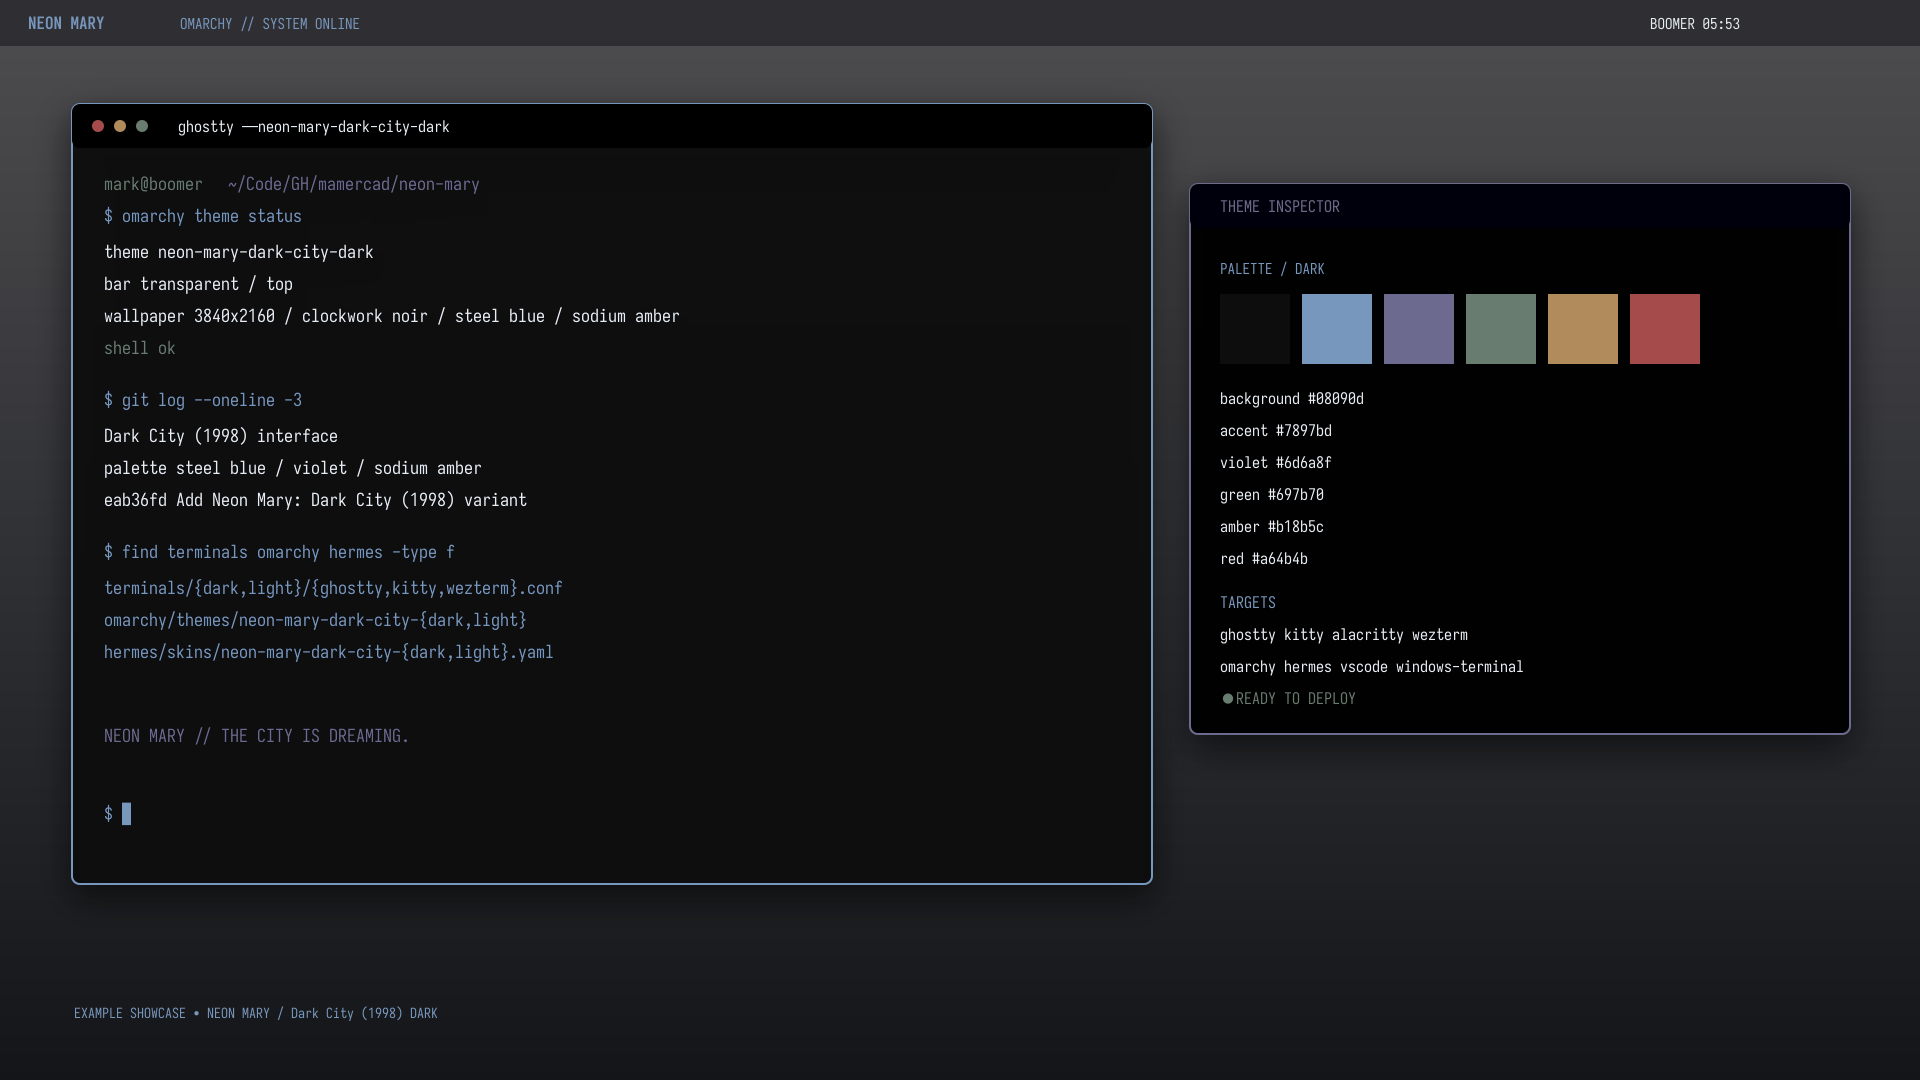
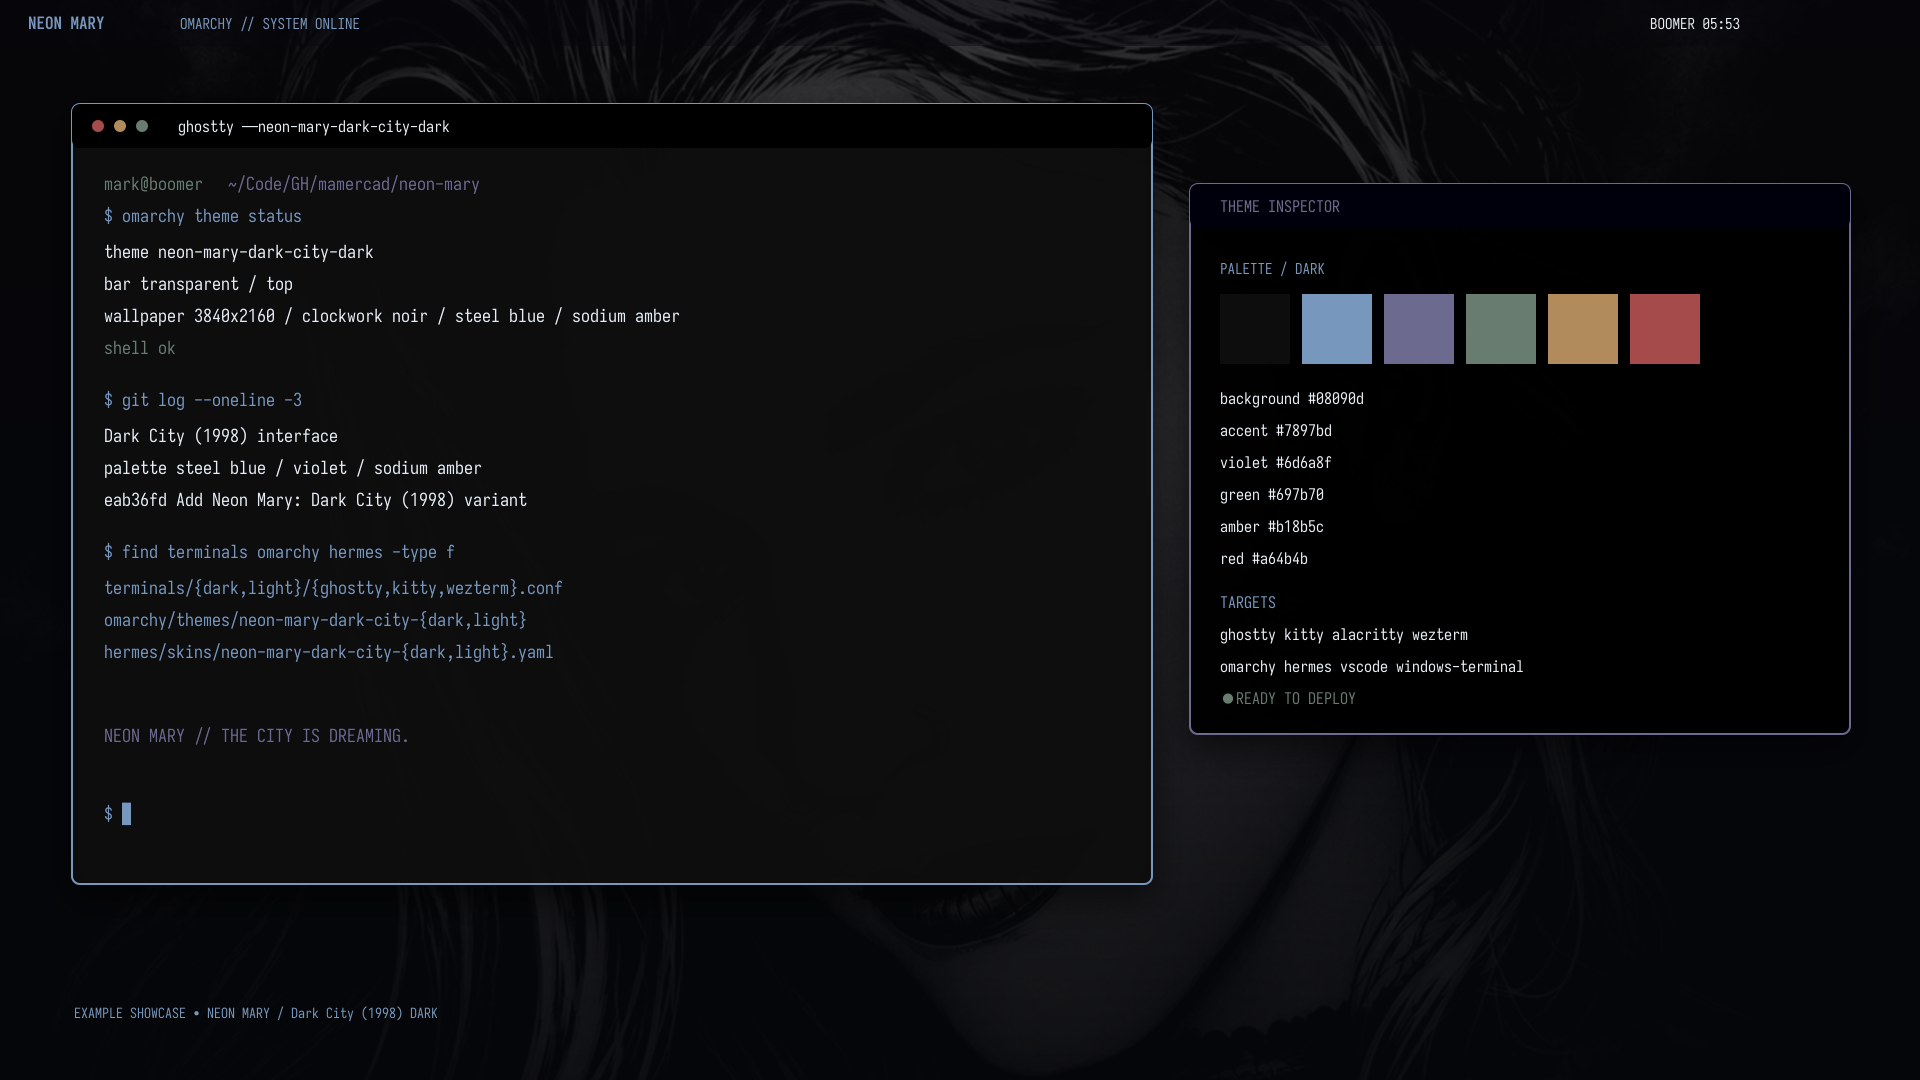
Restore missing Crow screenshot; fix contrast and wallpapers for newer variants
Three regressions came in with the Tron / Dark City / Fifth Element commits.

1. Broken image in the live README. 4d6875f deleted both
   screenshots/desktop-crow-dark-example.{png,svg} while the README still
   linked the PNG, so that image 404s on GitHub right now. Restored from
   c364cf3.

2. Comment text unreadable in six skins. generate_tron.py and
   generate_dark_city_fifth_element.py mapped banner_dim and syntax_comment
   straight to ANSI colour 8, reintroducing the bug fixed in 837b19c:

       tron-dark          #18303e on #050b12  = 1.44:1
       tron-light         #9dbbc2 on #e5f1f3  = 1.76:1
       dark-city-dark     #262a32 on #08090d  = 1.38:1
       dark-city-light    #a6b3ba on #e8edf0  = 1.82:1
       fifth-element-dark #38253e on #100b16  = 1.39:1
       fifth-element-lt   #c9a994 on #fff0df  = 1.96:1

   Root cause was duplication: muted() had been copy-pasted into three
   generators and simply omitted from the two new ones. Extracted it to
   palette_utils.py and pointed all five generators at the single copy, so a
   new variant cannot silently skip it. All 12 skins now pass
   validate_contrast.py.

3. Wallpapers missing from three showcase screenshots. render_screenshots.py
   carried a hardcoded TARGETS list naming only the first three variants, so
   the Tron, Dark City and Fifth Element examples were never re-rendered
   through the data-URI path and shipped with a flat void background
[…]

Changed region(s): [[0.0, 0.0, 1.0, 0.8556]]

diff --git a/generate_dark_city_fifth_element.py b/generate_dark_city_fifth_element.py
@@ -2,6 +2,7 @@
 """Generate the Neon Mary: Dark City (1998) and The Fifth Element (1997) variants."""
 from pathlib import Path
 import json, shutil, subprocess
+from palette_utils import muted
 ROOT=Path(__file__).resolve().parent
 SOURCE=Path.home()/"Pictures"/"mary.png"
 RES={"4k":(3840,2160),"wqhd":(2560,1440),"qhd":(1920,1080),"16-10":(2560,1600),"3-2":(2160,1440),"4-3":(2048,1536),"1-1":(2048,2048),"9-16":(1440,2560)}
@@ -20,7 +21,7 @@ def wezterm(p): return "return {\n  foreground = '"+p['fg']+"',\n  background = 
 def windows(p,title):
  n=['black','red','green','yellow','blue','purple','cyan','white']; d={"name":f"Neon Mary: {title}","background":p['bg'],"foreground":p['fg'],"cursorColor":p['accent']}; d.update(dict(zip(n,p['c'][:8]))); d.update(dict(zip(['bright'+x.title() for x in n],p['c'][8:]))); return json.dumps(d,indent=2)+"\n"
 def hermes(p,mode,title,tag):
- c=p['c']; return f'''name: neon-mary-{tag}-{mode}\ndescription: "Neon Mary: {title} — cinematic palette ({mode})."\ncolors:\n  background: '{p['bg']}'\n  status_bar_bg: '{p['bg']}'\n  ui_accent: '{p['accent']}'\n  banner_accent: '{p['accent']}'\n  prompt: '{p['accent']}'\n  input_rule: '{p['red']}'\n  banner_title: '{c[14]}'\n  ui_primary: '{c[14]}'\n  session_label: '{c[14]}'\n  response_border: '{c[6]}'\n  banner_text: '{p['fg']}'\n  ui_text: '{p['fg']}'\n  ui_label: '{c[7]}'\n  banner_dim: '{c[8]}'\n  banner_border: '{c[6]}'\n  ui_border: '{c[6]}'\n  session_border: '{c[6]}'\n  ui_tool: '{c[2]}'\n  ui_thinking: '{c[5]}'\n  ui_ok: '{c[2]}'\n  ui_warn: '{c[3]}'\n  ui_error: '{p['red']}'\n  status_bar_text: '{c[7]}'\n  status_bar_good: '{c[2]}'\n  status_bar_warn: '{c[3]}'\n  status_bar_bad: '{c[9]}'\n  status_bar_critical: '{p['red']}'\n  syntax_string: '{c[2]}'\n  syntax_number: '{c[3]}'\n  syntax_keyword: '{c[14]}'\n  syntax_comment: '{c[8]}'\n  completion_menu_bg: '{p['bg']}'\n  completion_menu_current_bg: '{c[6]}'\n  completion_menu_meta_bg: '{p['bg']}'\nbranding:\n  agent_name: Hermes Agent\n  prompt_symbol: ❯\n  welcome: {('The city is dreaming.' if tag=='dark-city' else 'Leeloo multipass.')}\n  goodbye: {('They built the city to see what makes us tick.' if tag=='dark-city' else 'Time not important. Only life important.')}\n  help_header: "◤ Neon Mary: {title} — Commands"\nspinner:\n  waiting_faces: ["(◉)", "(◎)", "(⊙)"]\n  thinking_faces: ["(⌁)", "(⊹)"]\n  thinking_verbs: [observing, tuning, traversing]\n  wings: [["⟪◤", "◥⟫"], ["⟪△", "△⟫"]]\ntool_prefix: ┊\n'''
+ c=p['c']; dim=muted(c[8], p['bg'], p['fg']); return f'''name: neon-mary-{tag}-{mode}\ndescription: "Neon Mary: {title} — cinematic palette ({mode})."\ncolors:\n  background: '{p['bg']}'\n  status_bar_bg: '{p['bg']}'\n  ui_accent: '{p['accent']}'\n  banner_accent: '{p['accent']}'\n  prompt: '{p['accent']}'\n  input_rule: '{p['red']}'\n  banner_title: '{c[14]}'\n  ui_primary: '{c[14]}'\n  session_label: '{c[14]}'\n  response_border: '{c[6]}'\n  banner_text: '{p['fg']}'\n  ui_text: '{p['fg']}'\n  ui_label: '{c[7]}'\n  banner_dim: '{dim}'\n  banner_border: '{c[6]}'\n  ui_border: '{c[6]}'\n  session_border: '{c[6]}'\n  ui_tool: '{c[2]}'\n  ui_thinking: '{c[5]}'\n  ui_ok: '{c[2]}'\n  ui_warn: '{c[3]}'\n  ui_error: '{p['red']}'\n  status_bar_text: '{c[7]}'\n  status_bar_good: '{c[2]}'\n  status_bar_warn: '{c[3]}'\n  status_bar_bad: '{c[9]}'\n  status_bar_critical: '{p['red']}'\n  syntax_string: '{c[2]}'\n  syntax_number: '{c[3]}'\n  syntax_keyword: '{c[14]}'\n  syntax_comment: '{dim}'\n  completion_menu_bg: '{p['bg']}'\n  completion_menu_current_bg: '{c[6]}'\n  completion_menu_meta_bg: '{p['bg']}'\nbranding:\n  agent_name: Hermes Agent\n  prompt_symbol: ❯\n  welcome: {('The city is dreaming.' if tag=='dark-city' else 'Leeloo multipass.')}\n  goodbye: {('They built the city to see what makes us tick.' if tag=='dark-city' else 'Time not important. Only life important.')}\n  help_header: "◤ Neon Mary: {title} — Commands"\nspinner:\n  waiting_faces: ["(◉)", "(◎)", "(⊙)"]\n  thinking_faces: ["(⌁)", "(⊹)"]\n  thinking_verbs: [observing, tuning, traversing]\n  wings: [["⟪◤", "◥⟫"], ["⟪△", "△⟫"]]\ntool_prefix: ┊\n'''
 def wallpaper(out,w,h,mode,source):
  tag = out.parts[-3]
  base = source if (w,h)==(3840,2160) else ROOT/'wallpapers'/tag/mode/'4k.png'

diff --git a/generate.py b/generate.py
@@ -3,6 +3,8 @@
 from pathlib import Path
 import json, shutil, subprocess
 
+from palette_utils import muted
+
 ROOT = Path(__file__).resolve().parent
 SRC = Path.home() / "Wallpapers" / "blade-runner-neon-mary-4k.png"
 ORIGINAL = Path.home() / "Pictures" / "mary.png"
@@ -28,31 +30,6 @@ def kitty(p):
     names=['black','red','green','yellow','blue','magenta','cyan','white','bright_black','bright_red','bright_green','bright_yellow','bright_blue','bright_magenta','bright_cyan','bright_white']
     return "\n".join([f"foreground {p['foreground']}",f"background {p['background']}",f"cursor {p['accent']}",f"selection_foreground {p['background']}",f"selection_background {p['accent']}",*[(f"color{i} {v}") for i,v in enumerate(p['colors'])]])+"\n"
 
-def _lin(c):
-    c = c/255.0
-    return c/12.92 if c <= 0.03928 else ((c+0.055)/1.055)**2.4
-def _lum(hx):
-    hx = hx.lstrip('#'); r,g,b = (int(hx[i:i+2],16) for i in (0,2,4))
-    return 0.2126*_lin(r) + 0.7152*_lin(g) + 0.0722*_lin(b)
-def _ratio(a, b):
-    la, lb = _lum(a), _lum(b)
-    return (max(la,lb)+0.05)/(min(la,lb)+0.05)
-def muted(dim, bg, fg, target=3.0):
-    """ANSI color 8 is too dark/light to read as comment text on most of these
-    palettes. Blend it toward the foreground until it clears `target` contrast
-    against the background, preserving the palette's own hue."""
-    if _ratio(dim, bg) >= target:
-        return dim
-    d = [int(dim.lstrip('#')[i:i+2],16) for i in (0,2,4)]
-    f = [int(fg.lstrip('#')[i:i+2],16) for i in (0,2,4)]
-    best = dim
-    for step in range(1, 101):
-        t = step/100.0
-        cand = '#%02x%02x%02x' % tuple(int(round(d[i]+(f[i]-d[i])*t)) for i in range(3))
-        best = cand
-        if _ratio(cand, bg) >= target:
-            break
-    return best
 
 def wezterm(p):
     c=p['colors']; return "return {\n  foreground = '"+p['foreground']+"',\n  background = '"+p['background']+"',\n  cursor_bg = '"+p['accent']+"',\n  cursor_fg = '"+p['background']+"',\n  ansi = {"+", ".join(repr(x) for x in c[:8])+"},\n  brights = {"+", ".join(repr(x) for x in c[8:])+"},\n}\n"

diff --git a/generate_amelie.py b/generate_amelie.py
@@ -5,6 +5,8 @@ import json
 import shutil
 import subprocess
 
+from palette_utils import muted
+
 ROOT = Path(__file__).resolve().parent
 SOURCE = Path.home() / "Pictures" / "mary.png"
 RESOLUTIONS = {"4k": (3840, 2160), "wqhd": (2560, 1440), "qhd": (1920, 1080), "16-10": (2560, 1600), "3-2": (2160, 1440), "4-3": (2048, 1536), "1-1": (2048, 2048), "9-16": (1440, 2560)}
@@ -16,31 +18,6 @@ PALETTES = {
 def write(path, text): path.parent.mkdir(parents=True, exist_ok=True); path.write_text(text)
 def rgb(value): return tuple(int(value[i:i+2],16)/255 for i in (1,3,5))
 
-def _lin(c):
-    c = c/255.0
-    return c/12.92 if c <= 0.03928 else ((c+0.055)/1.055)**2.4
-def _lum(hx):
-    hx = hx.lstrip('#'); r,g,b = (int(hx[i:i+2],16) for i in (0,2,4))
-    return 0.2126*_lin(r) + 0.7152*_lin(g) + 0.0722*_lin(b)
-def _ratio(a, b):
-    la, lb = _lum(a), _lum(b)
-    return (max(la,lb)+0.05)/(min(la,lb)+0.05)
-def muted(dim, bg, fg, target=3.0):
-    """ANSI color 8 is too dark/light to read as comment text on most of these
-    palettes. Blend it toward the foreground until it clears `target` contrast
-    against the background, preserving the palette's own hue."""
-    if _ratio(dim, bg) >= target:
-        return dim
-    d = [int(dim.lstrip('#')[i:i+2],16) for i in (0,2,4)]
-    f = [int(fg.lstrip('#')[i:i+2],16) for i in (0,2,4)]
-    best = dim
-    for step in range(1, 101):
-        t = step/100.0
-        cand = '#%02x%02x%02x' % tuple(int(round(d[i]+(f[i]-d[i])*t)) for i in range(3))
-        best = cand
-        if _ratio(cand, bg) >= target:
-            break
-    return best
 
 def toml(p):
     lines=[f'mode = "{p["mode"]}"',"",f'background = "{p["background"]}"',f'foreground = "{p["foreground"]}"',"",f'accent = "{p["accent"]}"',f'red     = "{p["red"]}"',""]+[f'color{i:<2} = "{v}"' for i,v in enumerate(p["colors"])]

diff --git a/palette_utils.py b/palette_utils.py
@@ -1,0 +1,47 @@
+"""Shared palette helpers for the Neon Mary generators.
+
+Extracted so every variant generator applies identical contrast logic. The
+helper was previously copy-pasted into generate.py, generate_crow.py and
+generate_amelie.py, and simply omitted from the newer generators -- which is
+how the Tron, Dark City and Fifth Element skins shipped with comment text at
+1.38-1.96:1 against their own background.
+"""
+
+
+def _lin(c: float) -> float:
+    c = c / 255.0
+    return c / 12.92 if c <= 0.03928 else ((c + 0.055) / 1.055) ** 2.4
+
+
+def luminance(hx: str) -> float:
+    """WCAG relative luminance of an #rrggbb string."""
+    hx = hx.lstrip("#")
+    r, g, b = (int(hx[i:i + 2], 16) for i in (0, 2, 4))
+    return 0.2126 * _lin(r) + 0.7152 * _lin(g) + 0.0722 * _lin(b)
+
+
+def ratio(a: str, b: str) -> float:
+    """WCAG contrast ratio between two #rrggbb colours."""
+    la, lb = luminance(a), luminance(b)
+    return (max(la, lb) + 0.05) / (min(la, lb) + 0.05)
+
+
+def muted(dim: str, bg: str, fg: str, target: float = 3.0) -> str:
+    """Return a readable muted/comment colour.
+
+    ANSI colour 8 is typically too close to the background to read as comment
+    text. Blend it toward the foreground until it clears `target` contrast,
+    preserving the palette's own hue rather than substituting a generic grey.
+    """
+    if ratio(dim, bg) >= target:
+        return dim
+    d = [int(dim.lstrip("#")[i:i + 2], 16) for i in (0, 2, 4)]
+    f = [int(fg.lstrip("#")[i:i + 2], 16) for i in (0, 2, 4)]
+    best = dim
+    for step in range(1, 101):
+        t = step / 100.0
+        best = "#%02x%02x%02x" % tuple(
+            int(round(d[i] + (f[i] - d[i]) * t)) for i in range(3))
+        if ratio(best, bg) >= target:
+            break
+    return best

diff --git a/generate_crow.py b/generate_crow.py
@@ -5,6 +5,8 @@ import json
 import shutil
 import subprocess
 
+from palette_utils import muted
+
 ROOT = Path(__file__).resolve().parent
 SOURCE = Path.home() / "Pictures" / "mary.png"
 RESOLUTIONS = {"4k": (3840, 2160), "wqhd": (2560, 1440), "qhd": (1920, 1080), "16-10": (2560, 1600), "3-2": (2160, 1440), "4-3": (2048, 1536), "1-1": (2048, 2048), "9-16": (1440, 2560)}
@@ -24,38 +26,6 @@ def write(path, text):
     path.write_text(text)
 
 
-def _lin(c):
-    c = c / 255.0
-    return c / 12.92 if c <= 0.03928 else ((c + 0.055) / 1.055) ** 2.4
-
-
-def _lum(hx):
-    hx = hx.lstrip('#')
-    r, g, b = (int(hx[i:i + 2], 16) for i in (0, 2, 4))
-    return 0.2126 * _lin(r) + 0.7152 * _lin(g) + 0.0722 * _lin(b)
-
-
-def _ratio(a, b):
-    la, lb = _lum(a), _lum(b)
-    return (max(la, lb) + 0.05) / (min(la, lb) + 0.05)
-
-
-def muted(dim, bg, fg, target=3.0):
-    """ANSI color 8 is too dark/light to read as comment text on most of these
-    palettes. Blend it toward the foreground until it clears `target` contrast
-    against the background, preserving the palette's own hue."""
-    if _ratio(dim, bg) >= target:
-        return dim
-    d = [int(dim.lstrip('#')[i:i + 2], 16) for i in (0, 2, 4)]
-    f = [int(fg.lstrip('#')[i:i + 2], 16) for i in (0, 2, 4)]
-    best = dim
-    for step in range(1, 101):
-        t = step / 100.0
-        cand = '#%02x%02x%02x' % tuple(int(round(d[i] + (f[i] - d[i]) * t)) for i in range(3))
-        best = cand
-        if _ratio(cand, bg) >= target:
-            break
-    return best
 
 def rgb(hex_color):
     return tuple(int(hex_color[i:i+2], 16) / 255 for i in (1, 3, 5))

diff --git a/generate_tron.py b/generate_tron.py
@@ -5,6 +5,8 @@ import json
 import shutil
 import subprocess
 
+from palette_utils import muted
+
 ROOT = Path(__file__).resolve().parent
 SOURCE = Path.home() / "Pictures" / "mary.png"
 RESOLUTIONS = {"4k": (3840, 2160), "wqhd": (2560, 1440), "qhd": (1920, 1080), "16-10": (2560, 1600), "3-2": (2160, 1440), "4-3": (2048, 1536), "1-1": (2048, 2048), "9-16": (1440, 2560)}
@@ -47,6 +49,7 @@ def windows(p):
 
 def hermes(p, mode):
     c = p["colors"]
+    dim = muted(c[8], p['background'], p['foreground'])
     return f'''name: neon-mary-tron-{mode}
 description: "Neon Mary: Tron (1982) — electric cyan, phosphor blue, amber, and grid black ({mode})."
 colors:
@@ -63,7 +66,7 @@ colors:
   banner_text: '{p["foreground"]}'
   ui_text: '{p["foreground"]}'
   ui_label: '{c[7]}'
-  banner_dim: '{c[8]}'
+  banner_dim: '{dim}'
   banner_border: '{c[6]}'
   ui_border: '{c[6]}'
   session_border: '{c[6]}'
@@ -80,7 +83,7 @@ colors:
   syntax_string: '{c[2]}'
   syntax_number: '{c[3]}'
   syntax_keyword: '{c[14]}'
-  syntax_comment: '{c[8]}'
+  syntax_comment: '{dim}'
   completion_menu_bg: '{p["background"]}'
   completion_menu_current_bg: '{c[6]}'
   completion_menu_meta_bg: '{p["background"]}'

diff --git a/render_screenshots.py b/render_screenshots.py
@@ -26,11 +26,15 @@ from pathlib import Path
 ROOT = Path(__file__).resolve().parent
 SHOTS = ROOT / "screenshots"
 
-TARGETS = [
-    "desktop-blade-runner-dark-example",
-    "desktop-crow-dark-example",
-    "desktop-amelie-dark-example",
-]
+def discover() -> list[str]:
+    """Every showcase SVG in screenshots/, so new variants are picked up
+    automatically. A hardcoded list silently skips whatever was added last --
+    that is how the Tron, Dark City, and Fifth Element examples shipped with
+    their wallpapers missing."""
+    return sorted(
+        p.stem for p in SHOTS.glob("desktop-*-example.svg")
+    )
+
 
 HREF = re.compile(r'(<image[^>]*?\shref=")([^"]+)(")', re.I)
 
@@ -81,7 +85,7 @@ def render(stem: str) -> None:
 
 
 if __name__ == "__main__":
-    names = sys.argv[1:] or TARGETS
+    names = sys.argv[1:] or discover()
     print("rendering showcase screenshots")
     for stem in names:
         render(stem)
